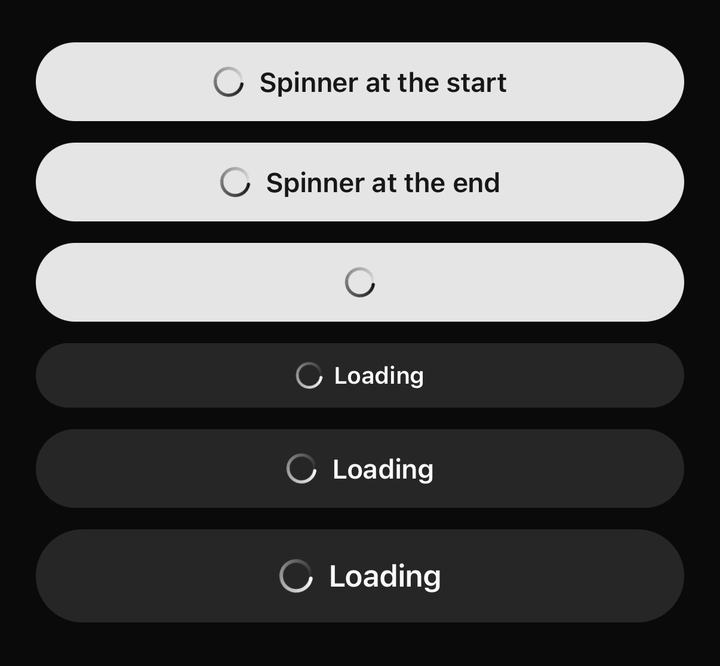
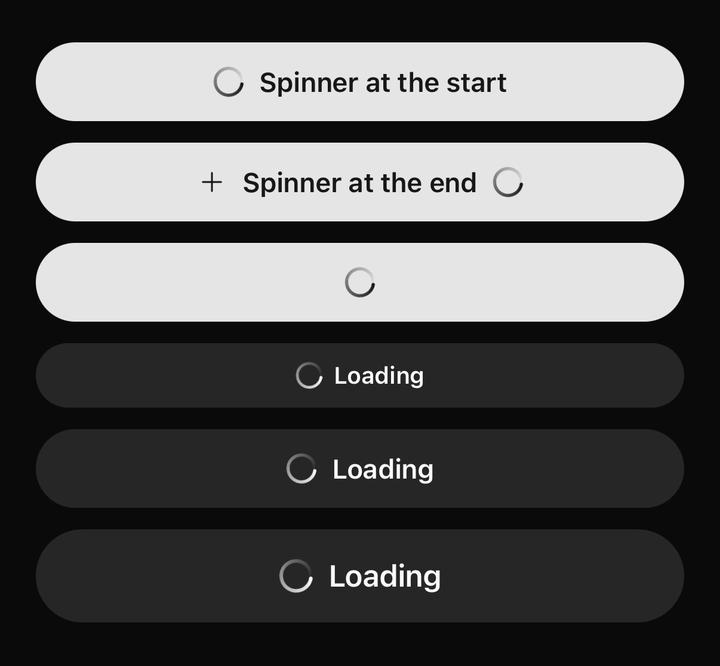
🎨 style(web): recapture button/loading after the rebase
The bulk recapture ran before this branch had #14's spinner fix, so its
`button/loading` frame showed the new palette over the old swap behaviour —
"Spinner at the end" losing the icon it should have kept.

Its own commit rather than a fixup into the bulk run: the reason it was
recaptured a second time is the rebase, and that is worth being able to
read.

The capture hash covers a demo's source, meta, flow and encode settings and
none of them moved, so this needed --force too.

Changed region(s): [[0.275, 0.2402, 0.7333, 0.3003]]

diff --git a/apps/web/src/previews/manifest.ts b/apps/web/src/previews/manifest.ts
@@ -219,7 +219,7 @@ export const previews = {
 		light: { poster: "/previews/button/loading/light.png?v=aa9bf87002e0" },
 		dark: { poster: "/previews/button/loading/dark.png?v=aa9bf87002e0" },
 		sourceHash: "aa9bf87002e0",
-		capturedAt: "2026-08-30T19:49:27.893Z",
+		capturedAt: "2026-08-30T20:31:05.530Z",
 		device: "iPhone 17 Pro · iOS 26.5",
 	},
 	"button/sizes": {
